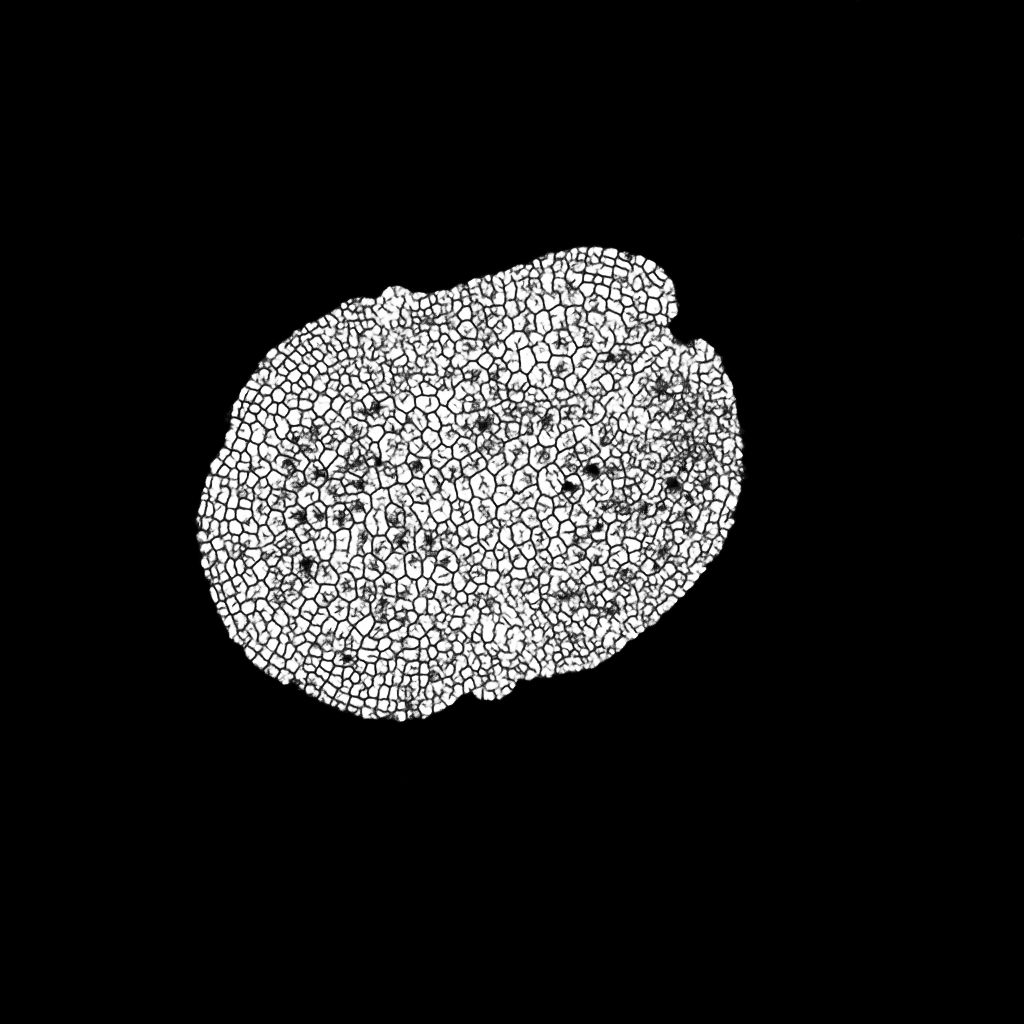
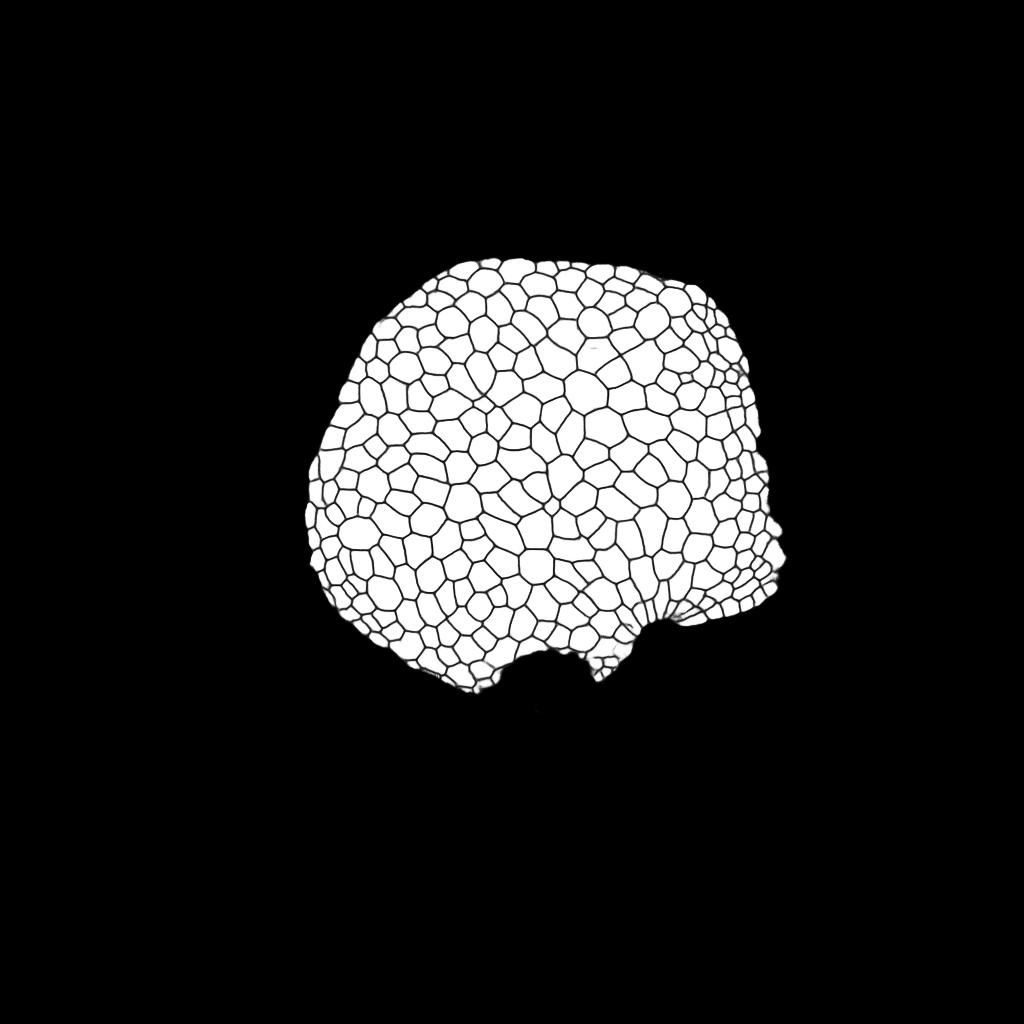
a

Changed region(s): [[0.1875, 0.2188, 0.7812, 0.7188]]

diff --git a/sr795/semantic_model_testing.py b/sr795/semantic_model_testing.py
@@ -20,7 +20,7 @@ import torchvision.transforms.functional as TF
 # What input image do you want to test?
 input_img_filepath = '../test_data/200224_LQ_LQ-Position001.tiff'
 input_img_filepath = '../watershed_comparison_photos/original.tiff'
-input_img_filepath = '../watershed_comparison_photos/enhanced.png'
+#input_img_filepath = '../watershed_comparison_photos/enhanced.png'
 #input_img_filepath = '../data/test2.tiff'
 #input_img_filepath = '../data/marcanthia_enhanced.png' 
 #input_img_filepath = '../data/trial.png'
@@ -29,7 +29,7 @@ input_img_filepath = '../watershed_comparison_photos/enhanced.png'
 #model_filepath = '../data/semseg_model_100epochs_16fdim_unet16_bce.pt'
 model_filepath = '../../../../sr795/DeepLearningFourthYear/deep-learning-marchantia/SCRIPTS/segmentation/semseg_results/final_model.pt'
 # Where would you like to save the image?
-save_img_location = './sem_enhanced.png'
+save_img_location = './sem_original.png'
 
 num_feature_dim = 16
 
